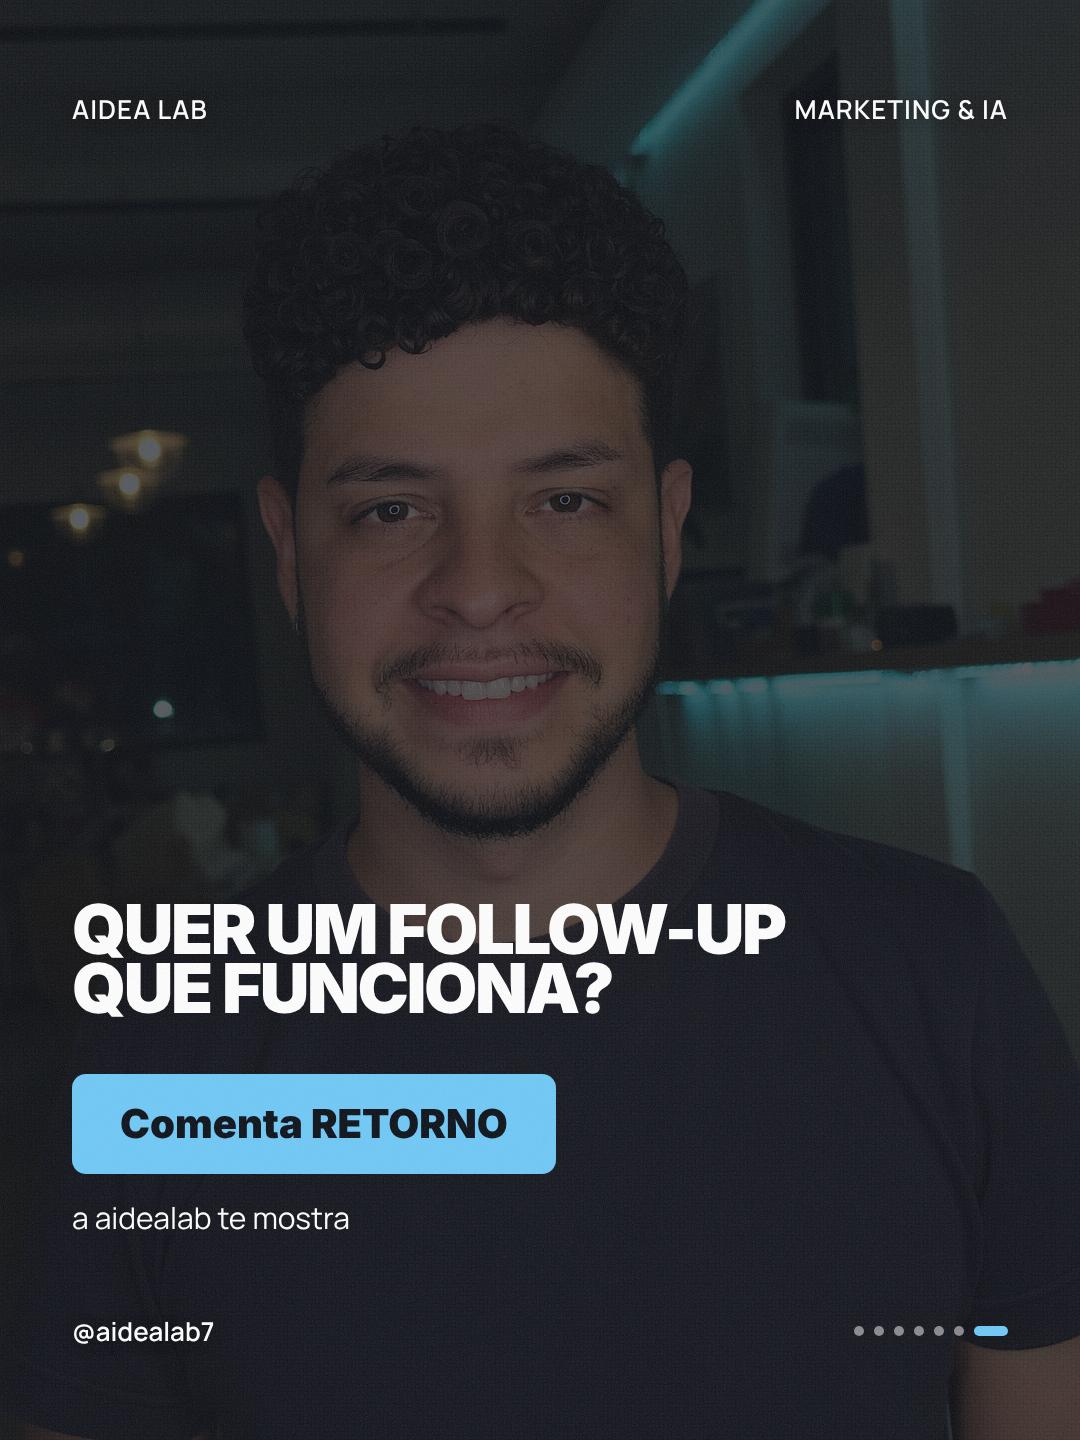
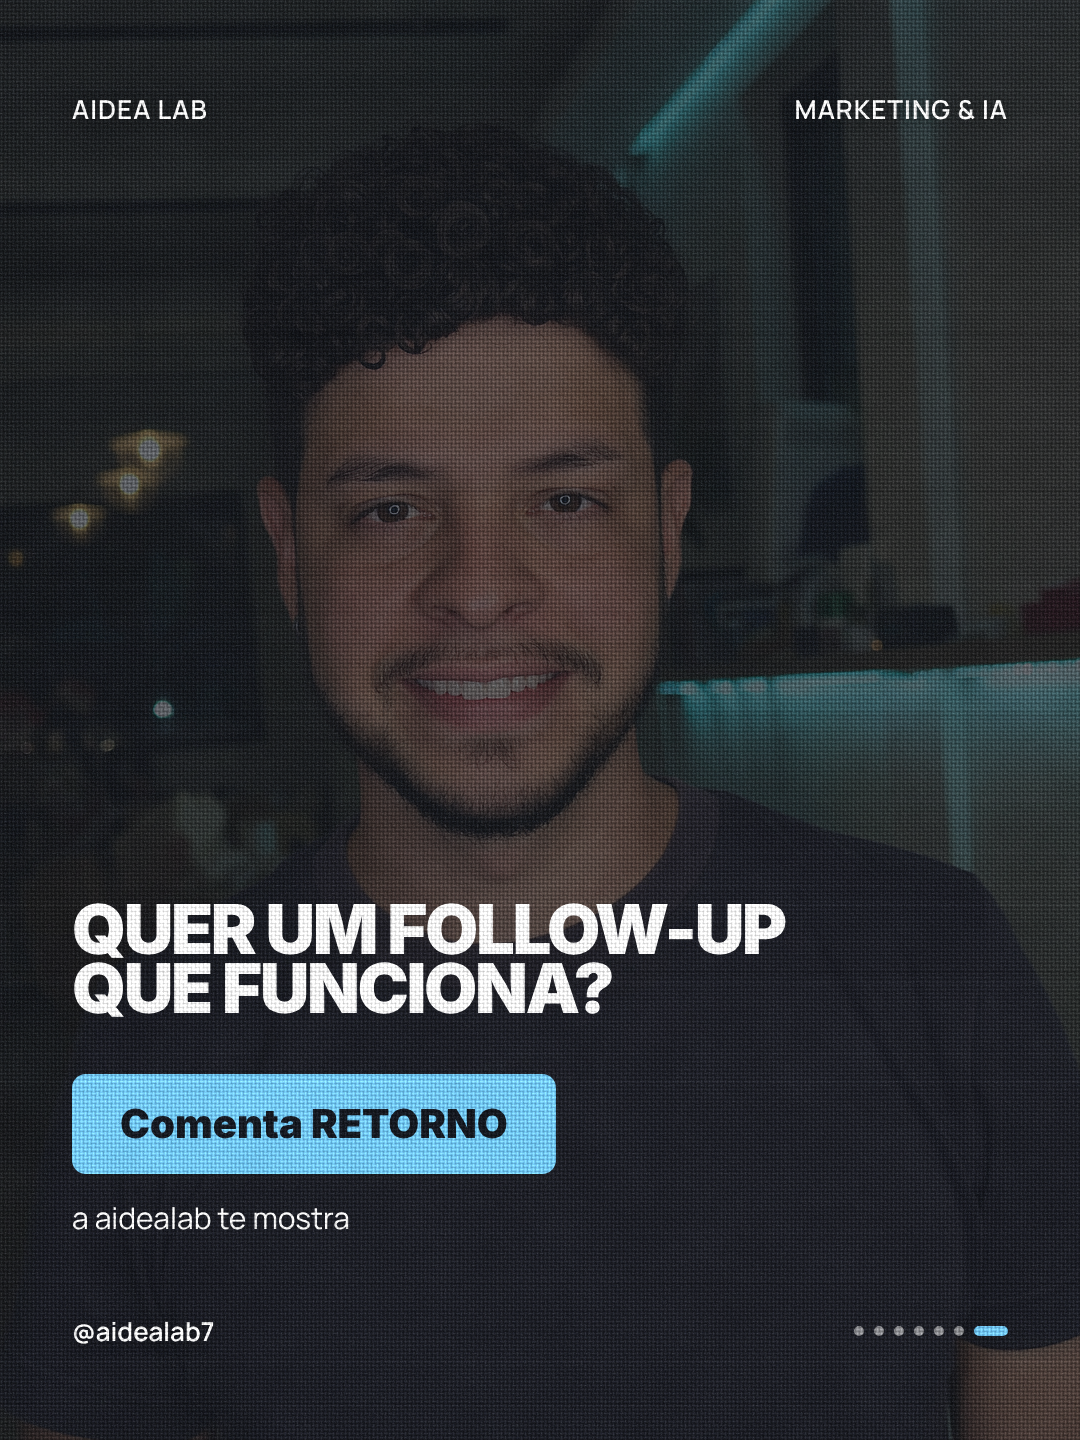
feat(aidealab): CTA com tecido no slide inteiro (letras incluídas)
- textura_foto.py: cloth_letras (cloth + ±9% de luz/sombra dos fios, marca o branco)
- render.py: "textura_slide" do tema aplicada no PNG final; tema: hook halftone só na
  foto, CTA cloth_letras no slide inteiro
- sync_fila_drive.py e textura_foto_drive.py: aplicam as duas configurações; o job
  parte sempre da revisão limpa do Drive (antes de 2026-10-06T18:45Z) e pula pastas
  já com a configuração atual
- CTAs dos carrosséis do repo re-renderizados

Claude-Session: https://claude.ai/code/session_012KyAE6tAMb32gBy6Q61w6r

diff --git a/agente aidealab/automation/cloud/textura_foto_drive.py b/agente aidealab/automation/cloud/textura_foto_drive.py
@@ -1,21 +1,17 @@
-"""Refaz a textura do hook e do CTA nas pastas de 06-Aprovados-para-Postar/FILA e de 04-Carrosseis (aidealab), só na foto.
+"""Refaz as texturas do hook e do CTA nas pastas de 06-Aprovados-para-Postar/FILA e de 04-Carrosseis (aidealab).
 
-Para workflow textura-foto-drive.yml (GitHub Actions, credenciais do Drive nos secrets). Por pasta:
-- metadata com "textura_foto" -> já feita, pula.
-- metadata com o legado "halftone": true (halftone no slide inteiro, texto junto) -> baixa do histórico do Drive a
-  última revisão do 1º e do último slide de antes da marca (modifiedTime do metadata.json - 5 min = versão limpa).
-- sem marca -> usa o arquivo atual.
-Rascunho de 04 que existe em clientes/aidealab/carrosseis/<slug>/png (renderizado com a textura_foto) sobe o PNG do
-repo. Senão aplica textura_foto.aplicar_slide (texto protegido por máscara) conforme "textura_foto" do tema, sobe como nova
-revisão do mesmo arquivo e grava "textura_foto" no metadata. A mesma imagem vai para a cópia na fila do repo
-(queue/FILA-SEMANA-1/02-carrossel/*, casada por carousel_id), que o workflow commita.
+Para workflow textura-foto-drive.yml (GitHub Actions, credenciais do Drive nos secrets). Aplica a configuração atual
+do tema ("textura_foto" só fora do texto, "textura_slide" no slide inteiro) sempre a partir da versão LIMPA de cada
+slide: a última revisão do Drive de antes de LIMPO (antes de qualquer textura) ou, se o arquivo é mais novo, a
+primeira revisão. Rascunho de 04 que existe em clientes/aidealab/carrosseis/<slug>/png sobe o PNG do repo (já
+renderizado com as texturas). Pula pasta cujo metadata já tem a configuração atual. Sobe como nova revisão do mesmo
+arquivo, grava as marcas no metadata e copia para a fila do repo (casada por carousel_id), que o workflow commita.
 Uso: textura_foto_drive.py [--dry-run]
 """
 import io
 import json
 import sys
 import tempfile
-from datetime import datetime, timedelta
 from pathlib import Path
 
 AQUI = Path(__file__).resolve().parent
@@ -25,9 +21,10 @@ sys.path.insert(0, str(REPO / "motor"))
 from drive_helper import get_service  # noqa: E402
 from googleapiclient.http import MediaFileUpload, MediaIoBaseDownload  # noqa: E402
 from PIL import Image  # noqa: E402
-from textura_foto import aplicar_slide  # noqa: E402
+from textura_foto import aplicar, aplicar_slide  # noqa: E402
 from upload_carrosseis import achar, filhos  # noqa: E402
 
+LIMPO = "2026-10-06T18:45:00Z"  # 1º commit de textura: revisões de antes disso são os slides limpos
 TEMA = REPO / "agente aidealab" / "clientes" / "aidealab" / "design-system" / "tema" / "tema.json"
 RAIZ = REPO / "agente aidealab" / "clientes" / "aidealab" / "carrosseis"
 QUEUE = REPO / "agente aidealab" / "skills" / "post-instagram" / "queue"
@@ -48,17 +45,19 @@ def arquivos(svc, pasta):
     return {f["name"]: f["id"] for f in r["files"]}
 
 
-def limpa(svc, fid, corte):
+def limpa(svc, fid):
     revs = svc.revisions().list(fileId=fid, fields="revisions(id,modifiedTime)", pageSize=200).execute().get("revisions", [])
-    antes = [r for r in revs if r["modifiedTime"] < corte]
-    if not antes:
-        return None
-    return baixar(svc.revisions().get_media(fileId=fid, revisionId=max(antes, key=lambda r: r["modifiedTime"])["id"]))
+    if not revs:
+        return baixar(svc.files().get_media(fileId=fid))
+    antes = [r for r in revs if r["modifiedTime"] < LIMPO]
+    r = max(antes, key=lambda r: r["modifiedTime"]) if antes else min(revs, key=lambda r: r["modifiedTime"])
+    return baixar(svc.revisions().get_media(fileId=fid, revisionId=r["id"]))
 
 
 def main():
     svc = get_service()
-    cfg = json.loads(TEMA.read_text(encoding="utf-8"))["textura_foto"]
+    tema = json.loads(TEMA.read_text(encoding="utf-8"))
+    foto, slide = tema.get("textura_foto") or {}, tema.get("textura_slide") or {}
     fila = filhos(svc, filhos(svc, achar(svc, "Clientes/aidealab/06-Aprovados-para-Postar"))["FILA"])
     fila.update({f"04/{k}": v for k, v in filhos(svc, achar(svc, "Clientes/aidealab/04-Carrosseis")).items()})
     repo = {}
@@ -71,36 +70,34 @@ def main():
         if "metadata.json" not in fs:
             continue
         meta = json.loads(baixar(svc.files().get_media(fileId=fs["metadata.json"])).decode("utf-8-sig"))
-        if meta.get("textura_foto") or meta.get("postado") or not meta.get("slides"):
+        if meta.get("postado") or not meta.get("slides"):
             continue
-        legado = bool(meta.get("halftone"))
-        corte = None
-        if legado:  # o halftone e a marca no metadata foram gravados juntos: revisões de antes disso são limpas
-            mt = svc.files().get(fileId=fs["metadata.json"], fields="modifiedTime").execute()["modifiedTime"]
-            corte = (datetime.fromisoformat(mt.replace("Z", "+00:00")) - timedelta(minutes=5)).strftime("%Y-%m-%dT%H:%M:%S.000Z")
+        if meta.get("textura_foto") == foto and meta.get("textura_slide") == slide and not meta.get("halftone"):
+            continue
         novos = {}
         for papel, s in (("hook", meta["slides"][0]), ("cta", meta["slides"][-1])):
             arq = s["arquivo"]
-            if not cfg.get(papel) or arq not in fs:
+            if arq not in fs:
                 continue
             render = RAIZ / nome[3:] / "png" / arq
-            if nome.startswith("04/") and render.exists():
-                novos[arq] = render
-                continue
-            dado = limpa(svc, fs[arq], corte) if legado else baixar(svc.files().get_media(fileId=fs[arq]))
-            if dado is None:
-                print(f"PULA     {nome}/{arq}: sem revisão de antes de {corte}")
-                continue
             out = tmp / f"{nome.replace('/', '_')}_{arq}"
-            aplicar_slide(Image.open(io.BytesIO(dado)), cfg[papel]).save(out)
+            if nome.startswith("04/") and render.exists():
+                out.write_bytes(render.read_bytes())
+            else:
+                im = Image.open(io.BytesIO(limpa(svc, fs[arq]))).convert("RGB")
+                if foto.get(papel):
+                    im = aplicar_slide(im, foto[papel])
+                if slide.get(papel):
+                    im = aplicar(im, slide[papel])
+                im.save(out)
             novos[arq] = out
         if not novos:
             continue
         meta.pop("halftone", None)
-        meta["textura_foto"] = cfg
+        meta["textura_foto"], meta["textura_slide"] = foto, slide
         mj = tmp / f"{nome.replace('/', '_')}_metadata.json"
         mj.write_text(json.dumps(meta, ensure_ascii=False, indent=2), encoding="utf-8")
-        print(f"TEXTURA  {nome}: {', '.join(novos)}" + (" (de revisão limpa)" if legado else ""))
+        print(f"TEXTURA  {nome}: {', '.join(novos)}")
         if DRY:
             continue
         for arq, f in novos.items():
@@ -112,7 +109,7 @@ def main():
                 (d / arq).write_bytes(f.read_bytes())
             rm = json.loads((d / "metadata.json").read_text(encoding="utf-8"))
             rm.pop("halftone", None)
-            rm["textura_foto"] = cfg
+            rm["textura_foto"], rm["textura_slide"] = foto, slide
             (d / "metadata.json").write_text(json.dumps(rm, ensure_ascii=False, indent=2), encoding="utf-8")
         feitos += 1
     print(f"pastas atualizadas: {feitos}")

diff --git a/agente aidealab/automation/sync_fila_drive.py b/agente aidealab/automation/sync_fila_drive.py
@@ -42,23 +42,28 @@ TEMA = REPO / "agente aidealab" / "clientes" / "aidealab" / "design-system" / "t
 
 
 def aplicar_textura(d, meta):
-    """Textura só na foto do hook (1º slide) e do CTA (último), conforme "textura_foto" do tema (o texto fica limpo).
-    Idempotente via meta["textura_foto"]. Pastas com o legado meta["halftone"] (slide inteiro) ficam para o workflow
-    textura-foto-drive.yml, que recupera a versão limpa no histórico do Drive."""
-    if meta.get("textura_foto") or meta.get("halftone") or meta.get("postado") \
+    """Texturas do hook (1º slide) e do CTA (último) conforme o tema: "textura_foto" só fora do texto (máscara) e
+    "textura_slide" no slide inteiro, letras incluídas. Idempotente: pula pasta com qualquer marca de textura
+    ("textura_foto", "textura_slide" ou o legado "halftone"); as já marcadas são refeitas pelo workflow
+    textura-foto-drive.yml, que parte da versão limpa no histórico do Drive."""
+    if meta.get("textura_foto") or meta.get("textura_slide") or meta.get("halftone") or meta.get("postado") \
             or meta.get("cliente", "aidealab") != "aidealab" or not meta.get("slides"):
         return False
     from PIL import Image
     try:
-        from textura_foto import aplicar_slide
+        from textura_foto import aplicar, aplicar_slide
     except ImportError as e:  # scipy ausente no PC: não quebra a sincronização
         print(f"AVISO    textura pulada ({e}); instale: pip install scipy")
         return False
-    cfg = ler(TEMA).get("textura_foto") or {}
+    tema = ler(TEMA)
+    foto, slide = tema.get("textura_foto") or {}, tema.get("textura_slide") or {}
     for papel, s in (("hook", meta["slides"][0]), ("cta", meta["slides"][-1])):
-        if cfg.get(papel):
-            aplicar_slide(Image.open(d / s["arquivo"]), cfg[papel]).save(d / s["arquivo"])
-    meta["textura_foto"] = cfg
+        f = d / s["arquivo"]
+        if foto.get(papel):
+            aplicar_slide(Image.open(f), foto[papel]).save(f)
+        if slide.get(papel):
+            aplicar(Image.open(f), slide[papel]).save(f)
+    meta["textura_foto"], meta["textura_slide"] = foto, slide
     return True
 
 

diff --git a/motor/textura_foto.py b/motor/textura_foto.py
@@ -1,14 +1,16 @@
 """
-Texturas aplicadas SÓ na foto (o texto do motor fica limpo), por papel do slide, configuradas no tema.json:
-  "textura_foto": {"hook": "halftone", "cta": "cloth"}
+Texturas por papel do slide, configuradas no tema.json:
+  "textura_foto": {"hook": "halftone"}       só na foto (imagem e recorte), o texto fica limpo
+  "textura_slide": {"cta": "cloth_letras"}   no slide inteiro, letras incluídas (aplicada no PNG final)
 - halftone: filtro_halftone.halftone (retícula de impresso)
 - cloth: trama de tecido assets/pano.png em soft-light 55% (a mesma da engine otalogia, --tex-pano)
+- cloth_letras: cloth + ±9% de luz/sombra dos fios, para a trama aparecer também nas letras brancas
 
 O render.py aplica na `imagem` e no `recorte` (alfa preservado) antes de desenhar o texto.
 Para slides já renderizados (fila/Drive, sem as fotos de origem), `aplicar_slide` protege o texto com uma máscara
 de cor + forma (branco, ciano quente, pílula do CTA) e texturiza o resto.
 
-Uso: python textura_foto.py <halftone|cloth> <entrada> [saida] [--slide]   (--slide = PNG final com texto)
+Uso: python textura_foto.py <halftone|cloth|cloth_letras> <entrada> [saida] [--slide]   (--slide = só fora do texto)
 """
 import sys
 from pathlib import Path
@@ -30,7 +32,15 @@ def cloth(im, opac=0.55):
     return Image.fromarray(((b + opac * (sl - b)).clip(0, 1) * 255).astype("uint8"))
 
 
-FILTROS = {"halftone": halftone, "cloth": cloth}
+def cloth_letras(im):
+    """cloth + luz/sombra dos fios (±9%), para a trama marcar também o branco das letras (soft-light não muda o branco)."""
+    t = np.asarray(cloth(im)).astype(float) / 255
+    p = np.asarray(Image.open(PANO).convert("L").resize(im.size, Image.BILINEAR)).astype(float) / 255
+    p = (p - p.mean()) / max(p.std(), 1e-6)
+    return Image.fromarray(((t * (1 + 0.09 * p)[..., None]).clip(0, 1) * 255).astype("uint8"))
+
+
+FILTROS = {"halftone": halftone, "cloth": cloth, "cloth_letras": cloth_letras}
 
 
 def aplicar(im, tipo):

diff --git a/motor/render.py b/motor/render.py
@@ -116,9 +116,13 @@ def main():
             browser.close()
 
     out_dir.mkdir(parents=True, exist_ok=True)
+    # tema "textura_slide" {"hook"/"cta": tipo}: textura no slide inteiro, letras incluídas
+    tsl = {1: tema.get("textura_slide", {}).get("hook"), n: tema.get("textura_slide", {}).get("cta")}
     for i, b in enumerate(shots, 1):
         png = out_dir / f"slide-{i:02d}.png"
         png.write_bytes(b)
+        if tsl.get(i):
+            aplicar(Image.open(png), tsl[i]).save(png)
         pngs.append(png)
     for png in pngs:
         assert Image.open(png).size == (W, H), f"{png} fora de {W}x{H}"

diff --git a/agente aidealab/clientes/aidealab/design-system/templates/templates.md b/agente aidealab/clientes/aidealab/design-system/templates/templates.md
@@ -60,5 +60,5 @@ quanto for preciso.
 
 - Slide 3: `"textura": "grain"`, só grão forte sobre o fundo liso, sem gradiente nem brilho de cor (nada de spotlight ciano ou rosa). O `compor.py` marca sozinho.
 - Hook e CTA com personagem: título bold ATRÁS DO TOPO DA CABEÇA (cabelo/testa; capa de revista), nunca atrás do rosto nem do tronco/costas, e a frase handwritten (emocao) NA FRENTE do sujeito, sobre o corpo e nunca no rosto; o `compor.py` escolhe sozinho sempre que houver folga acima da cabeça (topo da cabeça em ~1/3 do quadro).
-- Textura só na FOTO (o texto fica sempre limpo), pelo `"textura_foto"` do `tema.json`: hook (slide 1) = `halftone` (`motor/filtro_halftone.py`), CTA (último) = `cloth`, a trama de tecido `motor/assets/pano.png` em soft-light 55% (a mesma da engine otalogia). O `render.py` aplica na `imagem` e no `recorte` antes de desenhar o texto (`motor/textura_foto.py`); o `sync_fila_drive.py` aplica nos aprovados que entram na FILA (slide pronto: máscara protege o texto; marca `"textura_foto"` no metadata).
+- Texturas do hook e do CTA, pelo `tema.json` (`motor/textura_foto.py`): hook (slide 1) = `"textura_foto": {"hook": "halftone"}`, só na foto (imagem e recorte, antes do texto; texto limpo); CTA (último) = `"textura_slide": {"cta": "cloth_letras"}`, a trama de tecido `motor/assets/pano.png` (soft-light 55%, a mesma da engine otalogia) + ±9% de luz/sombra dos fios no slide INTEIRO, letras incluídas (aprovado 2026-10-08). O `sync_fila_drive.py` aplica nos aprovados que entram na FILA (marca `textura_foto`/`textura_slide` no metadata); o workflow `textura-foto-drive.yml` refaz as pastas já existentes a partir da versão limpa do Drive.
 - Demais slides de lista e o de conclusão: `"textura": "led"`.
